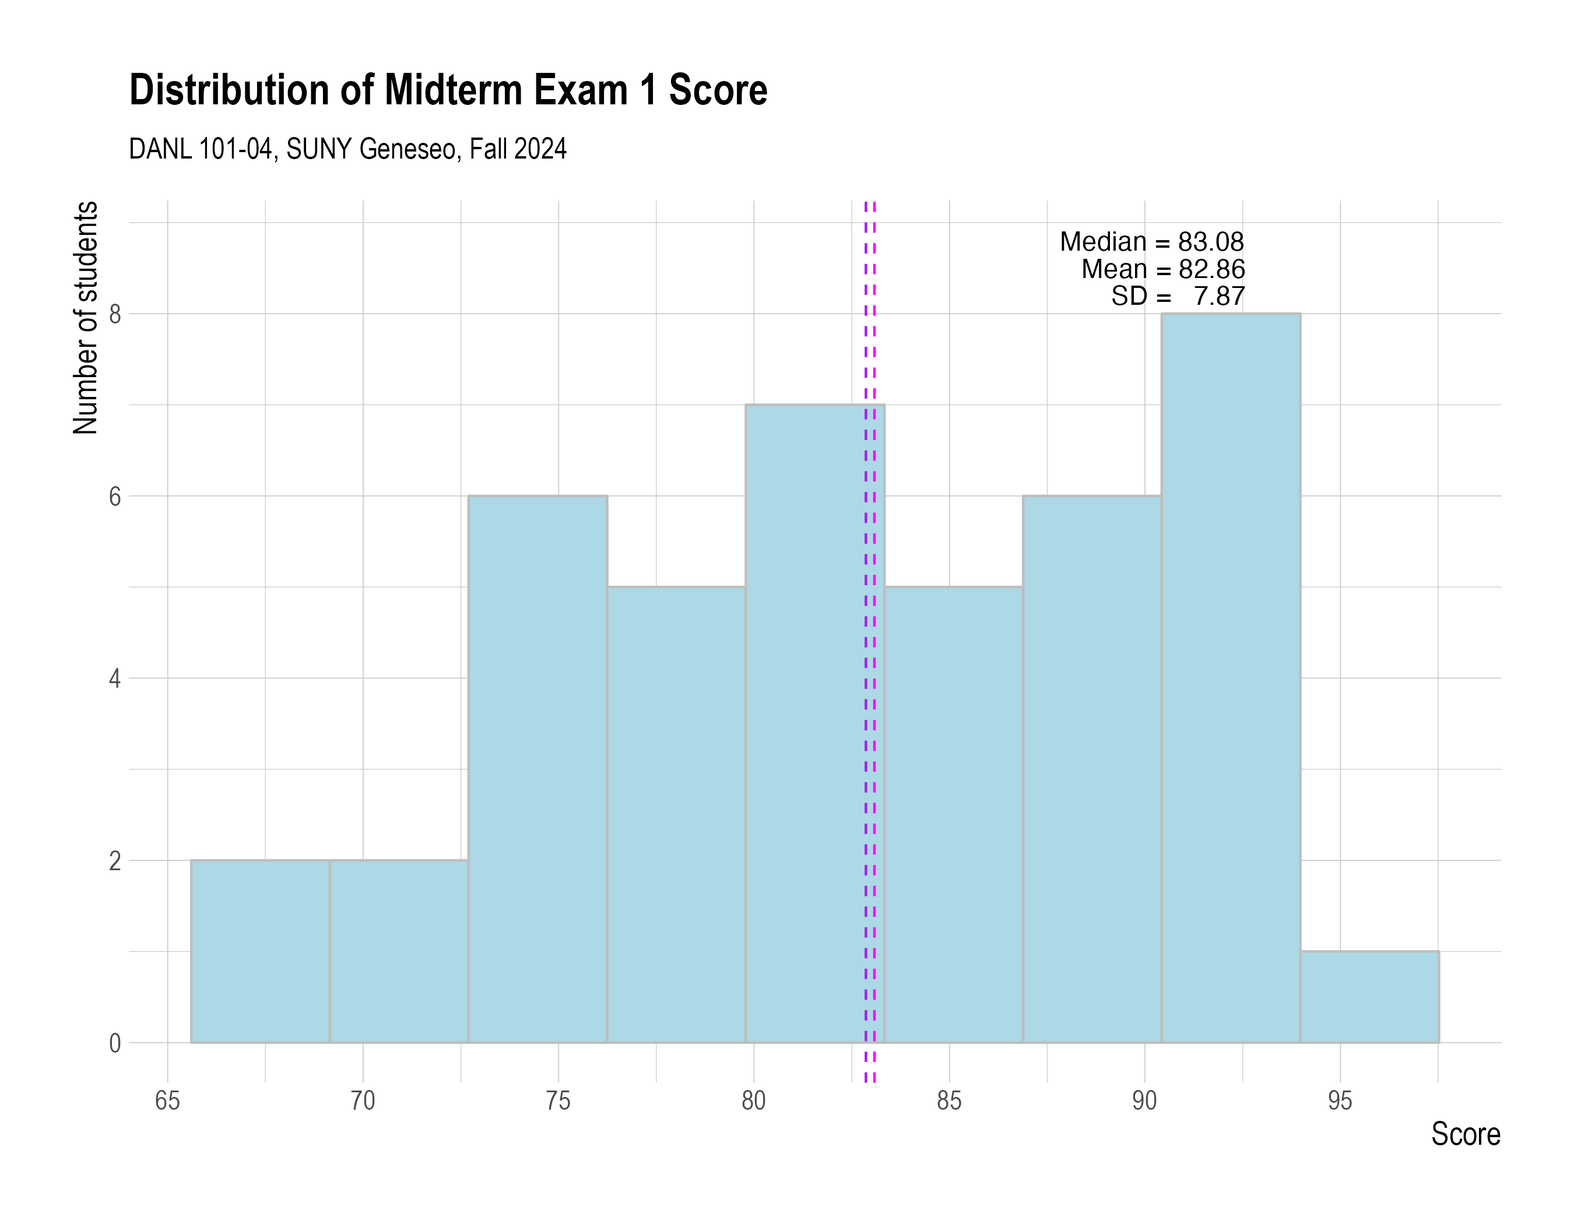
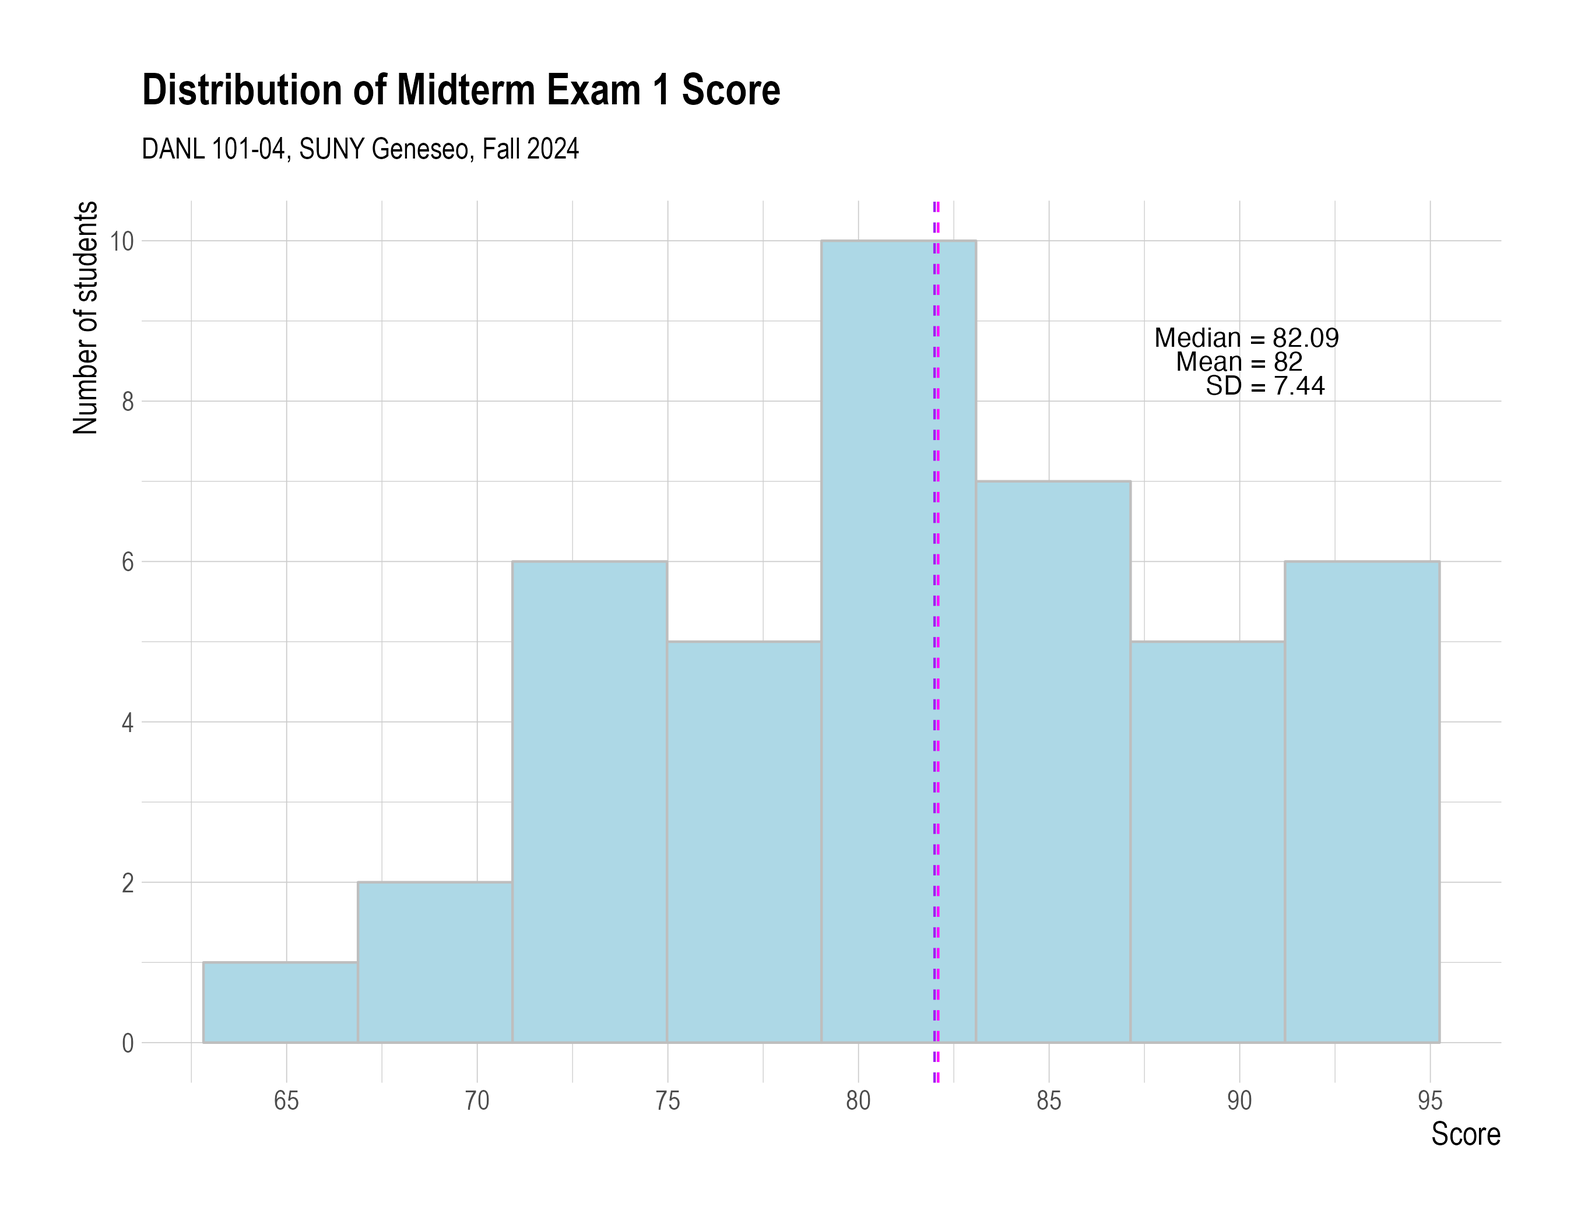
data or figs

diff --git a/index.html b/index.html
@@ -329,7 +329,7 @@ Date
 <tbody class="list">
 <tr data-index="0" data-listing-date-sort="1729656000000" data-listing-file-modified-sort="1729698984798" data-listing-date-modified-sort="NaN" data-listing-reading-time-sort="20" data-listing-title-sort="Lecture 20" data-listing-filename-sort="danl-101-lec-20-2024-1023.qmd">
 <td>
-<a href="#" onclick="window.open('./danl-lec/danl-101-lec-20-2024-1023.html'); return false;"" class="title listing-title">Lecture 20</a>
+<a href="./danl-lec/danl-101-lec-20-2024-1023.html" class="title listing-title">Lecture 20</a>
 </td>
 <td>
 <span class="listing-date">October 23, 2024</span>
@@ -337,7 +337,7 @@ Date
 </tr>
 <tr data-index="1" data-listing-date-sort="1729483200000" data-listing-file-modified-sort="1729658295859" data-listing-date-modified-sort="NaN" data-listing-reading-time-sort="7" data-listing-title-sort="Lecture 19" data-listing-filename-sort="danl-101-lec-19-2024-1021.qmd">
 <td>
-<a href="#" onclick="window.open('./danl-lec/danl-101-lec-19-2024-1021.html'); return false;"" class="title listing-title">Lecture 19</a>
+<a href="./danl-lec/danl-101-lec-19-2024-1021.html" class="title listing-title">Lecture 19</a>
 </td>
 <td>
 <span class="listing-date">October 21, 2024</span>
@@ -345,7 +345,7 @@ Date
 </tr>
 <tr data-index="2" data-listing-date-sort="1729224000000" data-listing-file-modified-sort="1729463203961" data-listing-date-modified-sort="NaN" data-listing-reading-time-sort="11" data-listing-title-sort="Lecture 18" data-listing-filename-sort="danl-101-lec-18-2024-1018.qmd">
 <td>
-<a href="#" onclick="window.open('./danl-lec/danl-101-lec-18-2024-1018.html'); return false;"" class="title listing-title">Lecture 18</a>
+<a href="./danl-lec/danl-101-lec-18-2024-1018.html" class="title listing-title">Lecture 18</a>
 </td>
 <td>
 <span class="listing-date">October 18, 2024</span>
@@ -353,7 +353,7 @@ Date
 </tr>
 <tr data-index="3" data-listing-date-sort="1728619200000" data-listing-file-modified-sort="1728617216569" data-listing-date-modified-sort="NaN" data-listing-reading-time-sort="9" data-listing-title-sort="Lecture 17" data-listing-filename-sort="danl-101-lec-17-2024-1011.qmd">
 <td>
-<a href="#" onclick="window.open('./danl-lec/danl-101-lec-17-2024-1011.html'); return false;"" class="title listing-title">Lecture 17</a>
+<a href="./danl-lec/danl-101-lec-17-2024-1011.html" class="title listing-title">Lecture 17</a>
 </td>
 <td>
 <span class="listing-date">October 11, 2024</span>
@@ -361,7 +361,7 @@ Date
 </tr>
 <tr data-index="4" data-listing-date-sort="1728273600000" data-listing-file-modified-sort="1728056346552" data-listing-date-modified-sort="NaN" data-listing-reading-time-sort="7" data-listing-title-sort="Lecture 16" data-listing-filename-sort="danl-101-lec-16-2024-1007.qmd">
 <td>
-<a href="#" onclick="window.open('./danl-lec/danl-101-lec-16-2024-1007.html'); return false;"" class="title listing-title">Lecture 16</a>
+<a href="./danl-lec/danl-101-lec-16-2024-1007.html" class="title listing-title">Lecture 16</a>
 </td>
 <td>
 <span class="listing-date">October 7, 2024</span>
@@ -369,7 +369,7 @@ Date
 </tr>
 <tr data-index="5" data-listing-date-sort="1728014400000" data-listing-file-modified-sort="1728056385106" data-listing-date-modified-sort="NaN" data-listing-reading-time-sort="3" data-listing-title-sort="Lecture 15" data-listing-filename-sort="danl-101-lec-15-2024-1004.qmd">
 <td>
-<a href="#" onclick="window.open('./danl-lec/danl-101-lec-15-2024-1004.html'); return false;"" class="title listing-title">Lecture 15</a>
+<a href="./danl-lec/danl-101-lec-15-2024-1004.html" class="title listing-title">Lecture 15</a>
 </td>
 <td>
 <span class="listing-date">October 4, 2024</span>
@@ -377,7 +377,7 @@ Date
 </tr>
 <tr data-index="6" data-listing-date-sort="1727668800000" data-listing-file-modified-sort="1727841879794" data-listing-date-modified-sort="NaN" data-listing-reading-time-sort="18" data-listing-title-sort="Lecture 14" data-listing-filename-sort="danl-101-lec-14-2024-0930.qmd">
 <td>
-<a href="#" onclick="window.open('./danl-lec/danl-101-lec-14-2024-0930.html'); return false;"" class="title listing-title">Lecture 14</a>
+<a href="./danl-lec/danl-101-lec-14-2024-0930.html" class="title listing-title">Lecture 14</a>
 </td>
 <td>
 <span class="listing-date">September 30, 2024</span>
@@ -385,7 +385,7 @@ Date
 </tr>
 <tr data-index="7" data-listing-date-sort="1727409600000" data-listing-file-modified-sort="1727673468043" data-listing-date-modified-sort="NaN" data-listing-reading-time-sort="6" data-listing-title-sort="Lecture 13" data-listing-filename-sort="danl-101-lec-13-2024-0927.qmd">
 <td>
-<a href="#" onclick="window.open('./danl-lec/danl-101-lec-13-2024-0927.html'); return false;"" class="title listing-title">Lecture 13</a>
+<a href="./danl-lec/danl-101-lec-13-2024-0927.html" class="title listing-title">Lecture 13</a>
 </td>
 <td>
 <span class="listing-date">September 27, 2024</span>
@@ -393,7 +393,7 @@ Date
 </tr>
 <tr data-index="8" data-listing-date-sort="1727236800000" data-listing-file-modified-sort="1727342098392" data-listing-date-modified-sort="NaN" data-listing-reading-time-sort="13" data-listing-title-sort="Lecture 12" data-listing-filename-sort="danl-101-lec-12-2024-0925.qmd">
 <td>
-<a href="#" onclick="window.open('./danl-lec/danl-101-lec-12-2024-0925.html'); return false;"" class="title listing-title">Lecture 12</a>
+<a href="./danl-lec/danl-101-lec-12-2024-0925.html" class="title listing-title">Lecture 12</a>
 </td>
 <td>
 <span class="listing-date">September 25, 2024</span>
@@ -401,7 +401,7 @@ Date
 </tr>
 <tr data-index="9" data-listing-date-sort="1727064000000" data-listing-file-modified-sort="1727238704615" data-listing-date-modified-sort="NaN" data-listing-reading-time-sort="23" data-listing-title-sort="Lecture 11" data-listing-filename-sort="danl-101-lec-11-2024-0923.qmd">
 <td>
-<a href="#" onclick="window.open('./danl-lec/danl-101-lec-11-2024-0923.html'); return false;"" class="title listing-title">Lecture 11</a>
+<a href="./danl-lec/danl-101-lec-11-2024-0923.html" class="title listing-title">Lecture 11</a>
 </td>
 <td>
 <span class="listing-date">September 23, 2024</span>
@@ -409,7 +409,7 @@ Date
 </tr>
 <tr data-index="10" data-listing-date-sort="1726804800000" data-listing-file-modified-sort="1726797885659" data-listing-date-modified-sort="NaN" data-listing-reading-time-sort="10" data-listing-title-sort="Lecture 10" data-listing-filename-sort="danl-101-lec-10-2024-0920.qmd">
 <td>
-<a href="#" onclick="window.open('./danl-lec/danl-101-lec-10-2024-0920.html'); return false;"" class="title listing-title">Lecture 10</a>
+<a href="./danl-lec/danl-101-lec-10-2024-0920.html" class="title listing-title">Lecture 10</a>
 </td>
 <td>
 <span class="listing-date">September 20, 2024</span>
@@ -417,7 +417,7 @@ Date
 </tr>
 <tr data-index="11" data-listing-date-sort="1726459200000" data-listing-file-modified-sort="1726645015854" data-listing-date-modified-sort="NaN" data-listing-reading-time-sort="5" data-listing-title-sort="Lecture 9" data-listing-filename-sort="danl-101-lec-09-2024-0916.qmd">
 <td>
-<a href="#" onclick="window.open('./danl-lec/danl-101-lec-09-2024-0916.html'); return false;"" class="title listing-title">Lecture 9</a>
+<a href="./danl-lec/danl-101-lec-09-2024-0916.html" class="title listing-title">Lecture 9</a>
 </td>
 <td>
 <span class="listing-date">September 16, 2024</span>
@@ -425,7 +425,7 @@ Date
 </tr>
 <tr data-index="12" data-listing-date-sort="1726200000000" data-listing-file-modified-sort="1726448219265" data-listing-date-modified-sort="NaN" data-listing-reading-time-sort="9" data-listing-title-sort="Lecture 8" data-listing-filename-sort="danl-101-lec-08-2024-0913.qmd">
 <td>
-<a href="#" onclick="window.open('./danl-lec/danl-101-lec-08-2024-0913.html'); return false;"" class="title listing-title">Lecture 8</a>
+<a href="./danl-lec/danl-101-lec-08-2024-0913.html" class="title listing-title">Lecture 8</a>
 </td>
 <td>
 <span class="listing-date">September 13, 2024</span>
@@ -433,7 +433,7 @@ Date
 </tr>
 <tr data-index="13" data-listing-date-sort="1726027200000" data-listing-file-modified-sort="1726102755590" data-listing-date-modified-sort="NaN" data-listing-reading-time-sort="12" data-listing-title-sort="Lecture 7" data-listing-filename-sort="danl-101-lec-07-2024-0911.qmd">
 <td>
-<a href="#" onclick="window.open('./danl-lec/danl-101-lec-07-2024-0911.html'); return false;"" class="title listing-title">Lecture 7</a>
+<a href="./danl-lec/danl-101-lec-07-2024-0911.html" class="title listing-title">Lecture 7</a>
 </td>
 <td>
 <span class="listing-date">September 11, 2024</span>
@@ -441,7 +441,7 @@ Date
 </tr>
 <tr data-index="14" data-listing-date-sort="1725854400000" data-listing-file-modified-sort="1725858562573" data-listing-date-modified-sort="NaN" data-listing-reading-time-sort="13" data-listing-title-sort="Lecture 6" data-listing-filename-sort="danl-101-lec-06-2024-0909.qmd">
 <td>
-<a href="#" onclick="window.open('./danl-lec/danl-101-lec-06-2024-0909.html'); return false;"" class="title listing-title">Lecture 6</a>
+<a href="./danl-lec/danl-101-lec-06-2024-0909.html" class="title listing-title">Lecture 6</a>
 </td>
 <td>
 <span class="listing-date">September 9, 2024</span>
@@ -449,7 +449,7 @@ Date
 </tr>
 <tr data-index="15" data-listing-date-sort="1725595200000" data-listing-file-modified-sort="1725855954223" data-listing-date-modified-sort="NaN" data-listing-reading-time-sort="8" data-listing-title-sort="Lecture 5" data-listing-filename-sort="danl-101-lec-05-2024-0906.qmd">
 <td>
-<a href="#" onclick="window.open('./danl-lec/danl-101-lec-05-2024-0906.html'); return false;"" class="title listing-title">Lecture 5</a>
+<a href="./danl-lec/danl-101-lec-05-2024-0906.html" class="title listing-title">Lecture 5</a>
 </td>
 <td>
 <span class="listing-date">September 6, 2024</span>
@@ -457,7 +457,7 @@ Date
 </tr>
 <tr data-index="16" data-listing-date-sort="1725422400000" data-listing-file-modified-sort="1725583343320" data-listing-date-modified-sort="NaN" data-listing-reading-time-sort="9" data-listing-title-sort="Lecture 4" data-listing-filename-sort="danl-101-lec-04-2024-0904.qmd">
 <td>
-<a href="#" onclick="window.open('./danl-lec/danl-101-lec-04-2024-0904.html'); return false;"" class="title listing-title">Lecture 4</a>
+<a href="./danl-lec/danl-101-lec-04-2024-0904.html" class="title listing-title">Lecture 4</a>
 </td>
 <td>
 <span class="listing-date">September 4, 2024</span>
@@ -465,7 +465,7 @@ Date
 </tr>
 <tr data-index="17" data-listing-date-sort="1724990400000" data-listing-file-modified-sort="1725412163497" data-listing-date-modified-sort="NaN" data-listing-reading-time-sort="6" data-listing-title-sort="Lecture 3" data-listing-filename-sort="danl-101-lec-03-2024-0830.qmd">
 <td>
-<a href="#" onclick="window.open('./danl-lec/danl-101-lec-03-2024-0830.html'); return false;"" class="title listing-title">Lecture 3</a>
+<a href="./danl-lec/danl-101-lec-03-2024-0830.html" class="title listing-title">Lecture 3</a>
 </td>
 <td>
 <span class="listing-date">August 30, 2024</span>
@@ -473,7 +473,7 @@ Date
 </tr>
 <tr data-index="18" data-listing-date-sort="1724817600000" data-listing-file-modified-sort="1724901242072" data-listing-date-modified-sort="NaN" data-listing-reading-time-sort="7" data-listing-title-sort="Lecture 2" data-listing-filename-sort="danl-101-lec-02-2024-0828.qmd">
 <td>
-<a href="#" onclick="window.open('./danl-lec/danl-101-lec-02-2024-0828.html'); return false;"" class="title listing-title">Lecture 2</a>
+<a href="./danl-lec/danl-101-lec-02-2024-0828.html" class="title listing-title">Lecture 2</a>
 </td>
 <td>
 <span class="listing-date">August 28, 2024</span>
@@ -481,7 +481,7 @@ Date
 </tr>
 <tr data-index="19" data-listing-date-sort="1724644800000" data-listing-file-modified-sort="1724826797665" data-listing-date-modified-sort="NaN" data-listing-reading-time-sort="15" data-listing-title-sort="Lecture 1" data-listing-filename-sort="danl-101-lec-01-2024-0826.qmd">
 <td>
-<a href="#" onclick="window.open('./danl-lec/danl-101-lec-01-2024-0826.html'); return false;"" class="title listing-title">Lecture 1</a>
+<a href="./danl-lec/danl-101-lec-01-2024-0826.html" class="title listing-title">Lecture 1</a>
 </td>
 <td>
 <span class="listing-date">August 26, 2024</span>
@@ -514,20 +514,20 @@ Date
 </tr>
 </thead>
 <tbody class="list">
-<tr data-index="0" data-listing-date-sort="1729665196000" data-listing-file-modified-sort="1729665196011" data-listing-date-modified-sort="1729665196000" data-listing-reading-time-sort="1" data-listing-title-sort="Gapminder Visualization" data-listing-filename-sort="danl-101-cw-09.qmd">
+<tr data-index="0" data-listing-date-sort="1729754880000" data-listing-file-modified-sort="1729754880518" data-listing-date-modified-sort="1729754880000" data-listing-reading-time-sort="15" data-listing-title-sort="Midterm Exam 1" data-listing-filename-sort="danl-101-cw-08.qmd">
+<td>
+<a href="./danl-cw/danl-101-cw-08.html" class="title listing-title">Midterm Exam 1</a>
+</td>
+<td>
+<span class="listing-date">October 24, 2024</span>
+</td>
+</tr>
+<tr data-index="1" data-listing-date-sort="1729665196000" data-listing-file-modified-sort="1729665196011" data-listing-date-modified-sort="1729665196000" data-listing-reading-time-sort="1" data-listing-title-sort="Gapminder Visualization" data-listing-filename-sort="danl-101-cw-09.qmd">
 <td>
 <a href="./danl-cw/danl-101-cw-09.html" class="title listing-title">Gapminder Visualization</a>
 </td>
 <td>
 <span class="listing-date">October 23, 2024</span>
-</td>
-</tr>
-<tr data-index="1" data-listing-date-sort="1729563407000" data-listing-file-modified-sort="1729563407798" data-listing-date-modified-sort="1729563407000" data-listing-reading-time-sort="15" data-listing-title-sort="Midterm Exam 1" data-listing-filename-sort="danl-101-cw-08.qmd">
-<td>
-<a href="./danl-cw/danl-101-cw-08.html" class="title listing-title">Midterm Exam 1</a>
-</td>
-<td>
-<span class="listing-date">October 21, 2024</span>
 </td>
 </tr>
 <tr data-index="2" data-listing-date-sort="1728334754000" data-listing-file-modified-sort="1728334754663" data-listing-date-modified-sort="1728334754000" data-listing-reading-time-sort="3" data-listing-title-sort="`filter()`, `arrange()`, and `distinct()`" data-listing-filename-sort="danl-101-cw-04.qmd">

diff --git a/danl-cw/danl-101-cw-08.html b/danl-cw/danl-101-cw-08.html
@@ -7,7 +7,7 @@
 <meta name="viewport" content="width=device-width, initial-scale=1.0, user-scalable=yes">
 
 <meta name="author" content="Byeong-Hak Choe">
-<meta name="dcterms.date" content="2024-10-21">
+<meta name="dcterms.date" content="2024-10-24">
 
 <title>Midterm Exam 1 | Byeong-Hak Choe</title>
 <style>
@@ -64,6 +64,16 @@ ul.task-list li input[type="checkbox"] {
     "search-label": "Search"
   }
 }</script>
+
+<script src="../site_libs/htmlwidgets-1.6.3/htmlwidgets.js"></script>
+<link href="../site_libs/datatables-css-0.0.0/datatables-crosstalk.css" rel="stylesheet">
+<script src="../site_libs/datatables-binding-0.33/datatables.js"></script>
+<script src="../site_libs/jquery-3.6.0/jquery-3.6.0.min.js"></script>
+<link href="../site_libs/dt-core-1.13.6/css/jquery.dataTables.min.css" rel="stylesheet">
+<link href="../site_libs/dt-core-1.13.6/css/jquery.dataTables.extra.css" rel="stylesheet">
+<script src="../site_libs/dt-core-1.13.6/js/jquery.dataTables.min.js"></script>
+<link href="../site_libs/crosstalk-1.2.1/css/crosstalk.min.css" rel="stylesheet">
+<script src="../site_libs/crosstalk-1.2.1/js/crosstalk.min.js"></script>
 
 
 <link rel="stylesheet" href="../styles.css">
@@ -175,7 +185,8 @@ ul.task-list li input[type="checkbox"] {
     <h2 id="toc-title">On this page</h2>
    
   <ul>
-  <li><a href="#section-1.-true-or-false" id="toc-section-1.-true-or-false" class="nav-link active" data-scroll-target="#section-1.-true-or-false">Section 1. True or False</a>
+  <li><a href="#summary-for-midterm-exam-1-performance" id="toc-summary-for-midterm-exam-1-performance" class="nav-link active" data-scroll-target="#summary-for-midterm-exam-1-performance">Summary for Midterm Exam 1 Performance</a></li>
+  <li><a href="#section-1.-true-or-false" id="toc-section-1.-true-or-false" class="nav-link" data-scroll-target="#section-1.-true-or-false">Section 1. True or False</a>
   <ul>
   <li><a href="#question-1" id="toc-question-1" class="nav-link" data-scroll-target="#question-1">Question 1</a></li>
   <li><a href="#question-2" id="toc-question-2" class="nav-link" data-scroll-target="#question-2">Question 2</a></li>
@@ -253,14 +264,14 @@ ul.task-list li input[type="checkbox"] {
     <div>
     <div class="quarto-title-meta-heading">Published</div>
     <div class="quarto-title-meta-contents">
-      <p class="date">October 21, 2024</p>
+      <p class="date">October 24, 2024</p>
     </div>
   </div>
   
     <div>
     <div class="quarto-title-meta-heading">Modified</div>
     <div class="quarto-title-meta-contents">
-      <p class="date-modified">October 21, 2024</p>
+      <p class="date-modified">October 24, 2024</p>
     </div>
   </div>
     
@@ -269,6 +280,24 @@ ul.task-list li input[type="checkbox"] {
 
 </header>
 
+<section id="summary-for-midterm-exam-1-performance" class="level1">
+<h1>Summary for Midterm Exam 1 Performance</h1>
+<p>The following provides the descriptive statistics for each part of the Midterm Exam 1 questions:</p>
+<div class="cell">
+<div class="cell-output-display">
+
+<div class="datatables html-widget html-fill-item" id="htmlwidget-359c637744402f5845e7" style="width:100%;height:auto;"></div>
+<script type="application/json" data-for="htmlwidget-359c637744402f5845e7">{"x":{"filter":"none","vertical":false,"data":[["1","2","3","4","5","6","7","8","9","10","11","12","13","14","15","16","17","18","19","20","21","22","23","24","25","26","27","28","29_sd","29_unit","30_list","30-description"],[1,0.98,0.6899999999999999,0.5,0.67,0.6899999999999999,0.71,0.6899999999999999,0.63,0.15,0.71,0.71,0.68,0.6899999999999999,0.67,0.36,0.71,0.76,0.74,0.57,0.62,0.62,0.24,0.38,0.55,0.57,0.79,0.33,0.99,0.46,0.76,0.6899999999999999],[0,0.15,0.47,0.51,0.48,0.47,0.46,0.47,0.35,0.34,0.46,0.46,0.38,0.47,0.48,0.48,0.46,0.43,0.45,0.5,0.49,0.49,0.43,0.49,0.5,0.5,0.42,0.48,0.08,0.36,0.35,0.38],[1,0,0,0,0,0,0,0,0,0,0,0,0,0,0,0,0,0,0,0,0,0,0,0,0,0,0,0,0.5,0,0,0],[1,1,0,0,0,0,0,0,0.5,0,0,0,0.5,0,0,0,0,1,0.25,0,0,0,0,0,0,0,1,0,1,0.25,0.5,0.5],[1,1,1,0.5,1,1,1,1,0.5,0,1,1,1,1,1,0,1,1,1,1,1,1,0,0,1,1,1,0,1,0.25,1,0.875],[1,1,1,1,1,1,1,1,1,0,1,1,1,1,1,1,1,1,1,1,1,1,0,1,1,1,1,1,1,0.6875,1,1],[1,1,1,1,1,1,1,1,1,1,1,1,1,1,1,1,1,1,1,1,1,1,1,1,1,1,1,1,1,1.25,1,1],["▁▁▇▁▁","▁▁▁▁▇","▃▁▁▁▇","▇▁▁▁▇","▃▁▁▁▇","▃▁▁▁▇","▃▁▁▁▇","▃▁▁▁▇","▂▁▇▁▇","▇▁▁▁▁","▃▁▁▁▇","▃▁▁▁▇","▂▁▅▁▇","▃▁▁▁▇","▃▁▁▁▇","▇▁▁▁▅","▃▁▁▁▇","▂▁▁▁▇","▃▁▁▁▇","▆▁▁▁▇","▅▁▁▁▇","▅▁▁▁▇","▇▁▁▁▂","▇▁▁▁▅","▆▁▁▁▇","▆▁▁▁▇","▂▁▁▁▇","▇▁▁▁▃","▁▁▁▁▇","▇▂▁▁▁","▂▁▂▂▇","▂▁▃▂▇"]],"container":"<table class=\"display\">\n  <thead>\n    <tr>\n      <th>question<\/th>\n      <th>mean<\/th>\n      <th>sd<\/th>\n      <th>p0<\/th>\n      <th>p25<\/th>\n      <th>p50<\/th>\n      <th>p75<\/th>\n      <th>p100<\/th>\n      <th>hist<\/th>\n    <\/tr>\n  <\/thead>\n<\/table>","options":{"pageLength":45,"columnDefs":[{"className":"dt-right","targets":[1,2,3,4,5,6,7]},{"name":"question","targets":0},{"name":"mean","targets":1},{"name":"sd","targets":2},{"name":"p0","targets":3},{"name":"p25","targets":4},{"name":"p50","targets":5},{"name":"p75","targets":6},{"name":"p100","targets":7},{"name":"hist","targets":8}],"order":[],"autoWidth":false,"orderClasses":false,"lengthMenu":[10,25,45,50,100]}},"evals":[],"jsHooks":[]}</script>
+</div>
+</div>
+<p><br></p>
+<p>The following describes the distribution of Midterm Exam 1 score:</p>
+<div style="text-align: center; width: 100%; margin: auto;">
+<img src="https://bcdanl.github.io/lec_figs/dist-danl-101-05-fall-2024-midterm-1.png" style="width: 80%; margin-bottom: -20px;">
+<p style="font-weight: bold;">
+</p>
+</div>
+</section>
 <section id="section-1.-true-or-false" class="level1">
 <h1>Section 1. True or False</h1>
 <section id="question-1" class="level2">

diff --git a/listing-danl-101-cw.html b/listing-danl-101-cw.html
@@ -267,7 +267,18 @@ Date
 </tr>
 </thead>
 <tbody class="list">
-<tr data-index="0" data-listing-date-sort="1729665196000" data-listing-file-modified-sort="1729665196011" data-listing-date-modified-sort="1729665196000" data-listing-reading-time-sort="1" data-listing-title-sort="Gapminder Visualization" data-listing-filename-sort="danl-101-cw-09.qmd">
+<tr data-index="0" data-listing-date-sort="1729754880000" data-listing-file-modified-sort="1729754880518" data-listing-date-modified-sort="1729754880000" data-listing-reading-time-sort="15" data-listing-title-sort="Midterm Exam 1" data-listing-filename-sort="danl-101-cw-08.qmd">
+<td>
+<a href="./danl-cw/danl-101-cw-08.html" class="title listing-title">Midterm Exam 1</a>
+</td>
+<td>
+<span class="listing-subtitle">Classwork 8</span>
+</td>
+<td>
+<span class="listing-date">October 24, 2024</span>
+</td>
+</tr>
+<tr data-index="1" data-listing-date-sort="1729665196000" data-listing-file-modified-sort="1729665196011" data-listing-date-modified-sort="1729665196000" data-listing-reading-time-sort="1" data-listing-title-sort="Gapminder Visualization" data-listing-filename-sort="danl-101-cw-09.qmd">
 <td>
 <a href="./danl-cw/danl-101-cw-09.html" class="title listing-title">Gapminder Visualization</a>
 </td>
@@ -276,17 +287,6 @@ Date
 </td>
 <td>
 <span class="listing-date">October 23, 2024</span>
-</td>
-</tr>
-<tr data-index="1" data-listing-date-sort="1729563407000" data-listing-file-modified-sort="1729563407798" data-listing-date-modified-sort="1729563407000" data-listing-reading-time-sort="15" data-listing-title-sort="Midterm Exam 1" data-listing-filename-sort="danl-101-cw-08.qmd">
-<td>
-<a href="./danl-cw/danl-101-cw-08.html" class="title listing-title">Midterm Exam 1</a>
-</td>
-<td>
-<span class="listing-subtitle">Classwork 8</span>
-</td>
-<td>
-<span class="listing-date">October 21, 2024</span>
 </td>
 </tr>
 <tr data-index="2" data-listing-date-sort="1728334754000" data-listing-file-modified-sort="1728334754663" data-listing-date-modified-sort="1728334754000" data-listing-reading-time-sort="3" data-listing-title-sort="`filter()`, `arrange()`, and `distinct()`" data-listing-filename-sort="danl-101-cw-04.qmd">
